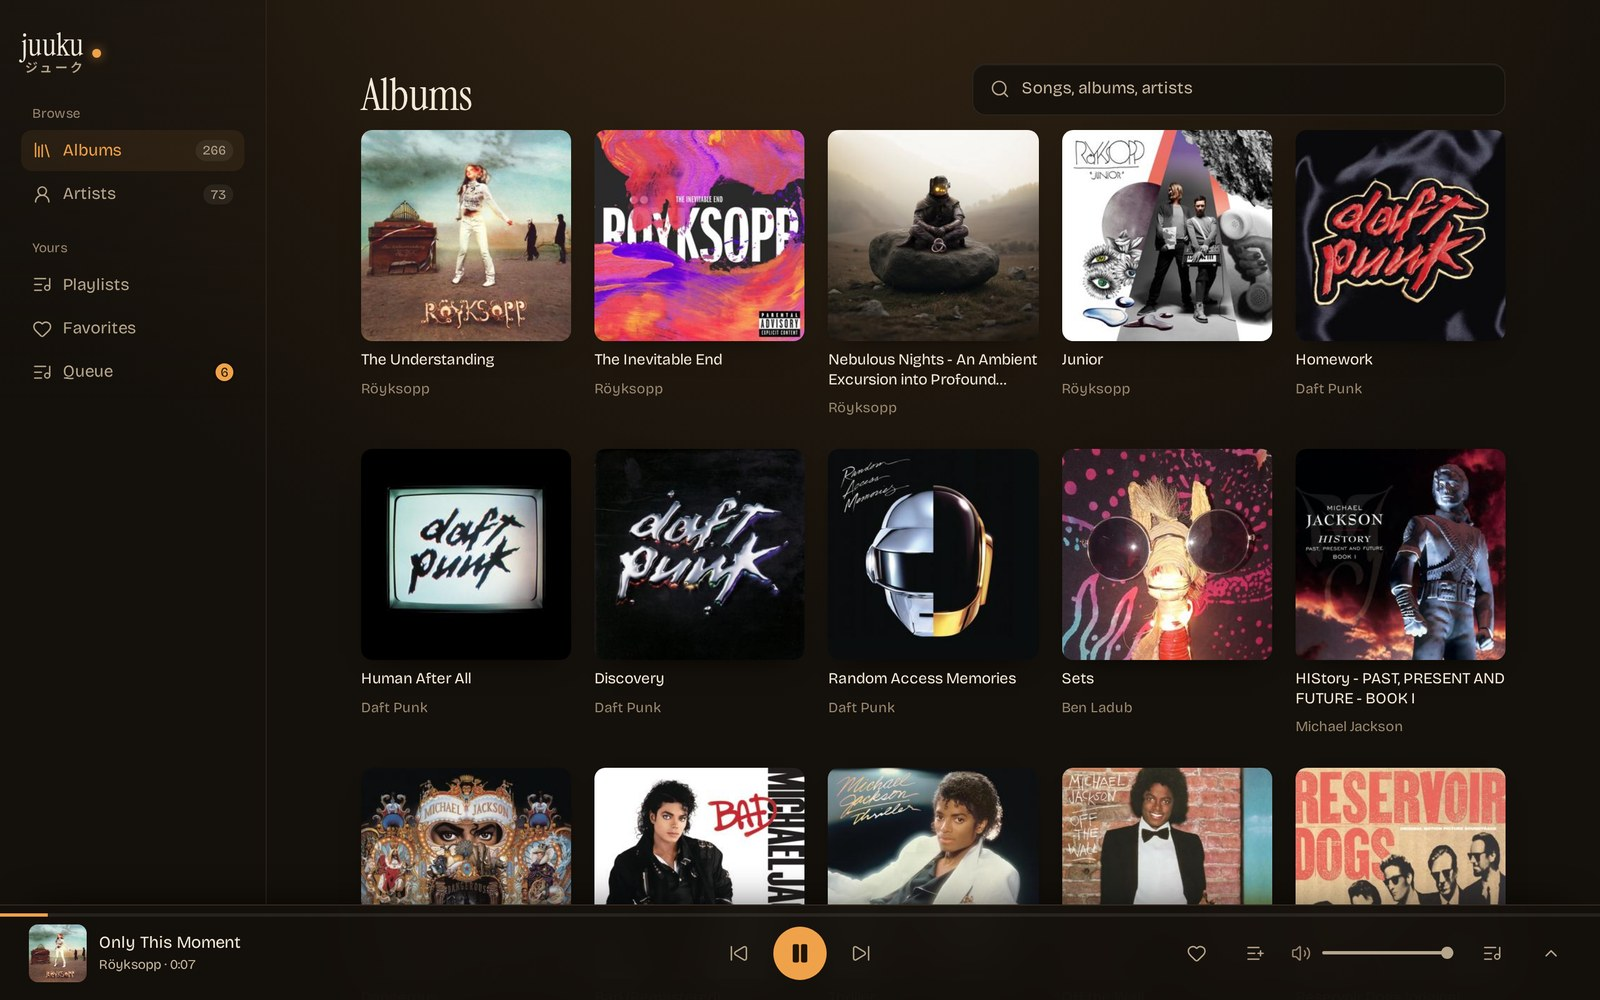
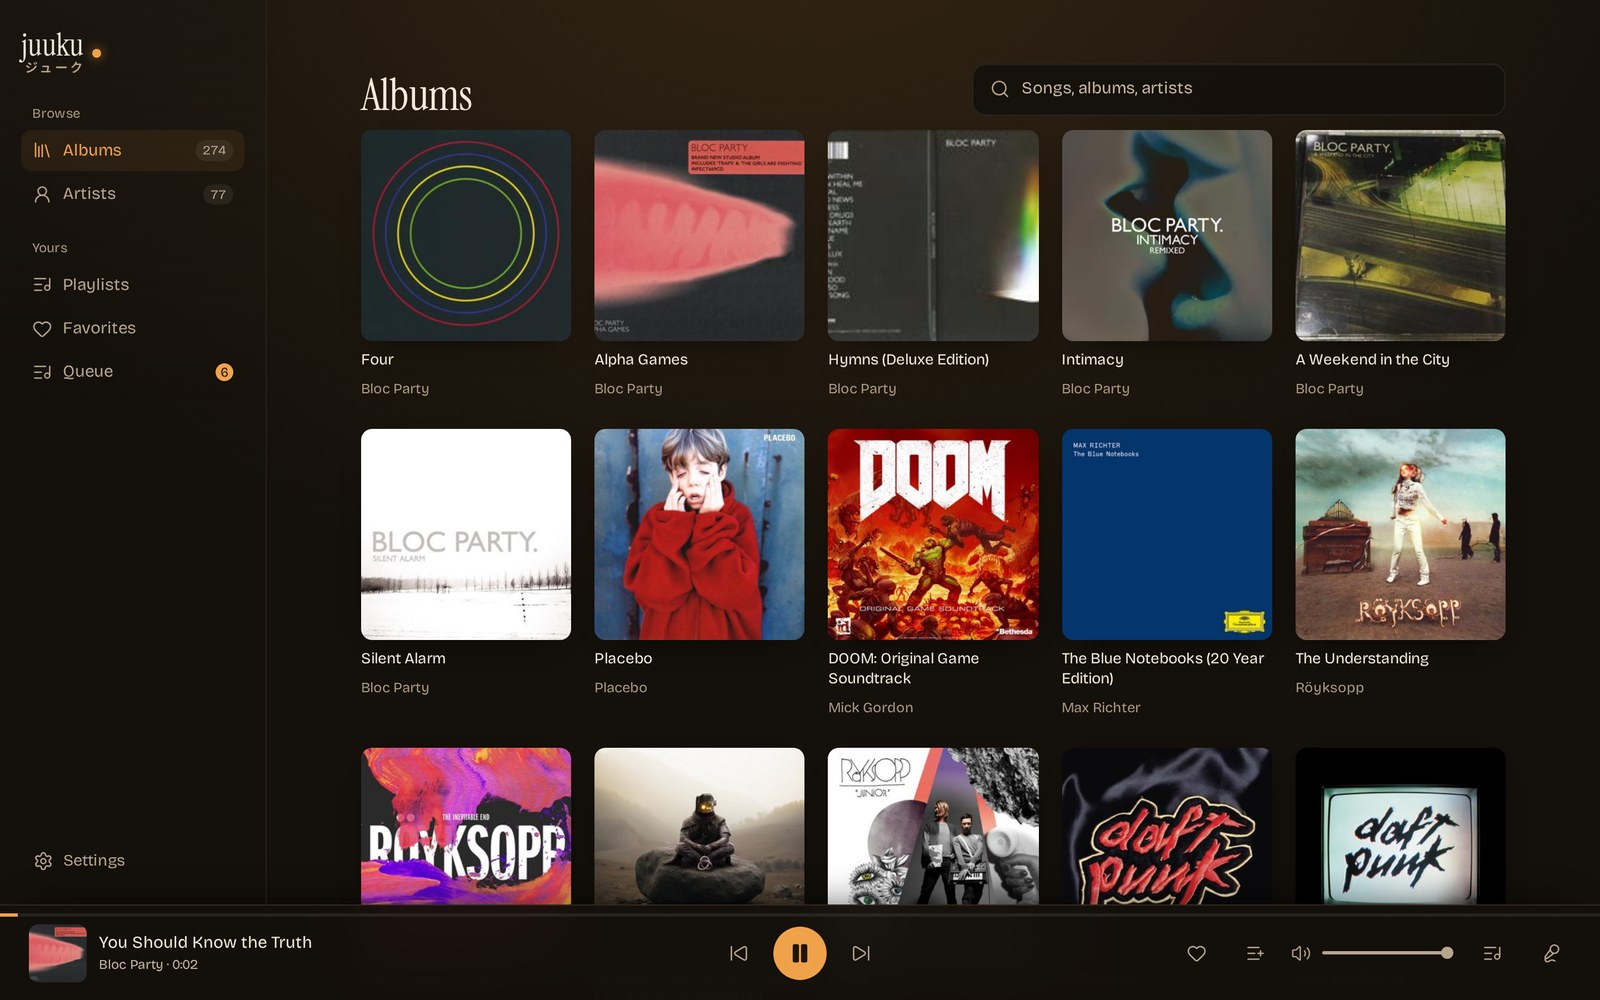
README: fresh desktop shot and three phone shots
Retaken on the released build against the real library: player, lyrics and album
page on a phone, plus the desktop library.

diff --git a/docs/CHANGELOG.md b/docs/CHANGELOG.md
@@ -9,6 +9,9 @@ minor, and the tag is what CI builds the published image from.
 
 ## v0.3.1 — 2026-10-18
 
+- **Change** — README images retaken against a 274-album library on the released build: a new desktop shot plus a row of three phone shots (player, lyrics with the sung line lit, album page).
+
+
 - **Fix** — the lyrics pane no longer shows a scrollbar: it auto-scrolls with the song, so the bar appearing and vanishing under the thumb was noise. Scrolling itself still works, and nothing moved (`clientWidth === offsetWidth`).
 
 ## v0.3.0 — 2026-10-17

diff --git a/README.md b/README.md
@@ -10,6 +10,12 @@ Navidrome's own web UI cannot drive the jukebox — the feature is only reachabl
 
 ![The library, with the player docked at the bottom](docs/screenshot.jpg)
 
+<p align="center">
+  <img src="docs/mobile-player.jpg" width="30%" alt="Player: cover, title, scrubber, transport and volume" />
+  <img src="docs/mobile-lyrics.jpg" width="30%" alt="Lyrics in the cover's place, the singing line lit" />
+  <img src="docs/mobile-album.jpg" width="30%" alt="Album page: cover, facts, actions and the track list" />
+</p>
+
 ## Run it
 
 ```sh
